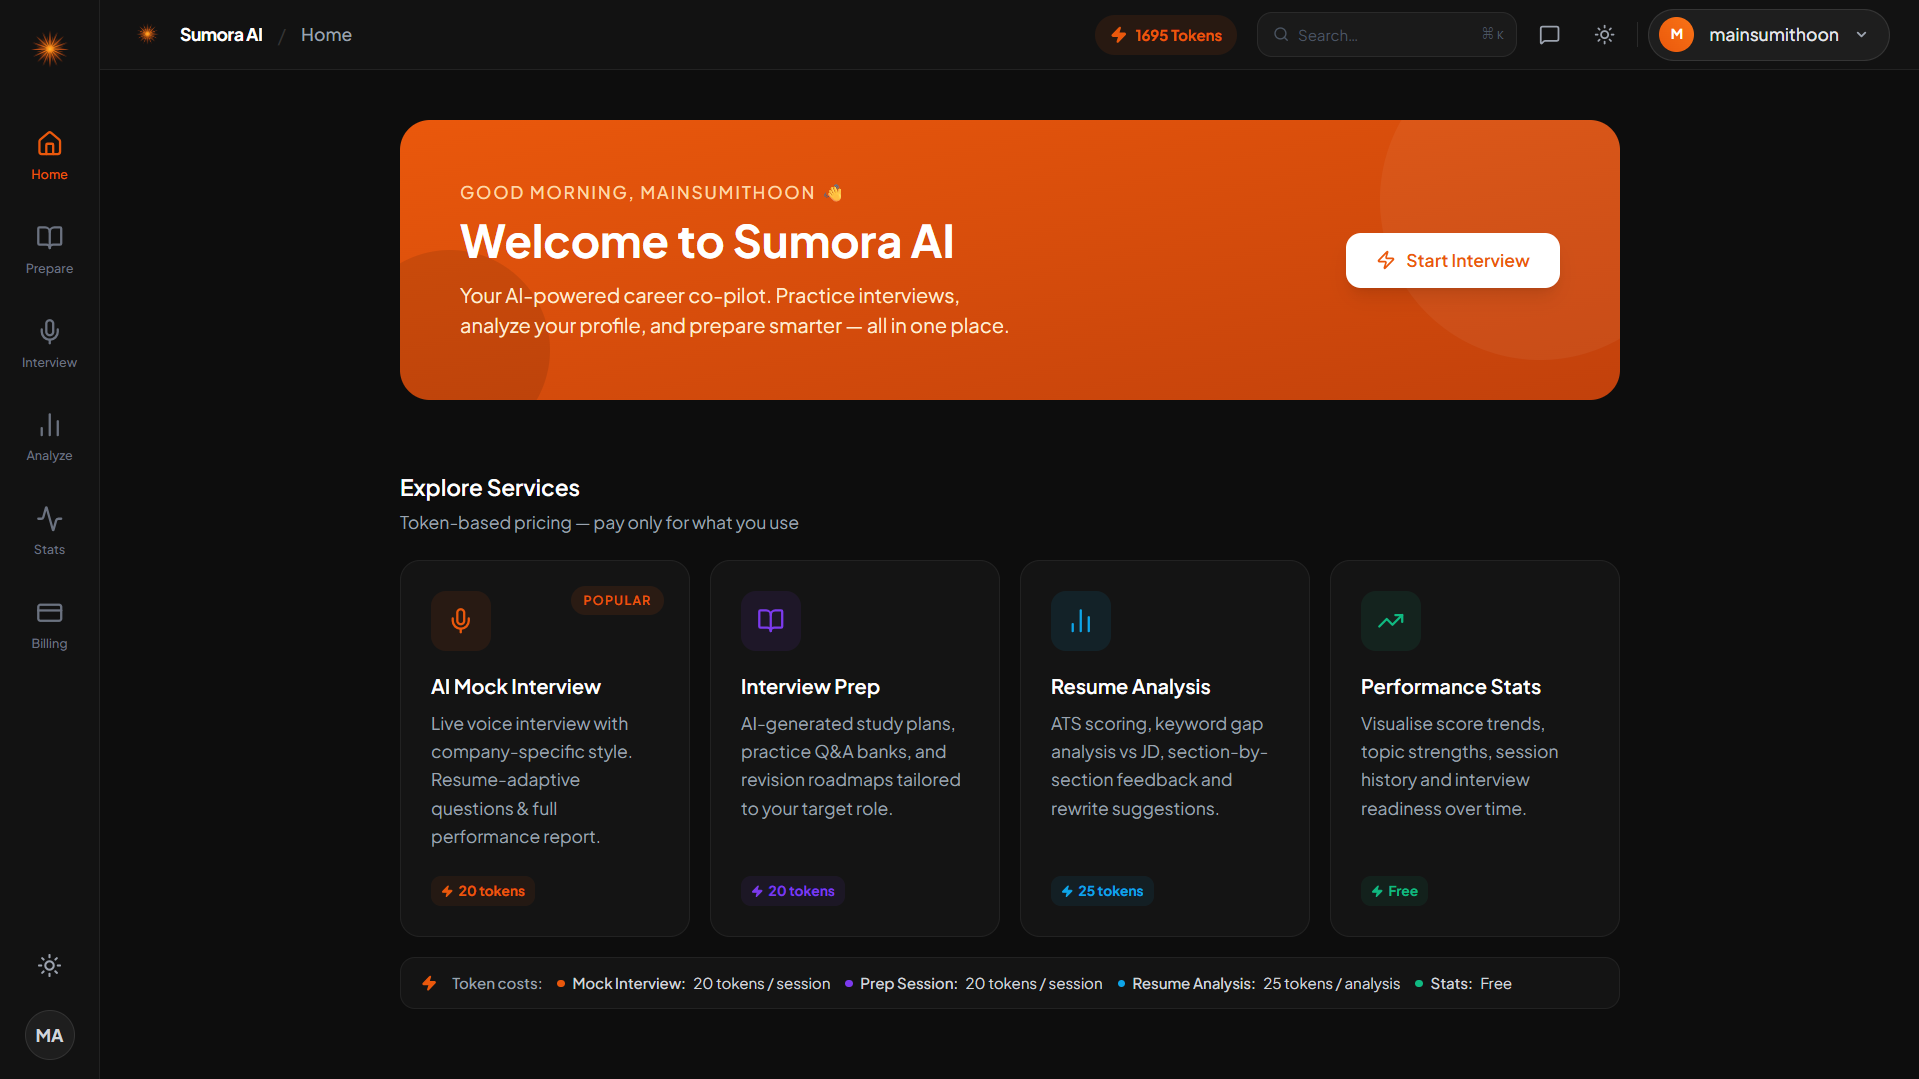
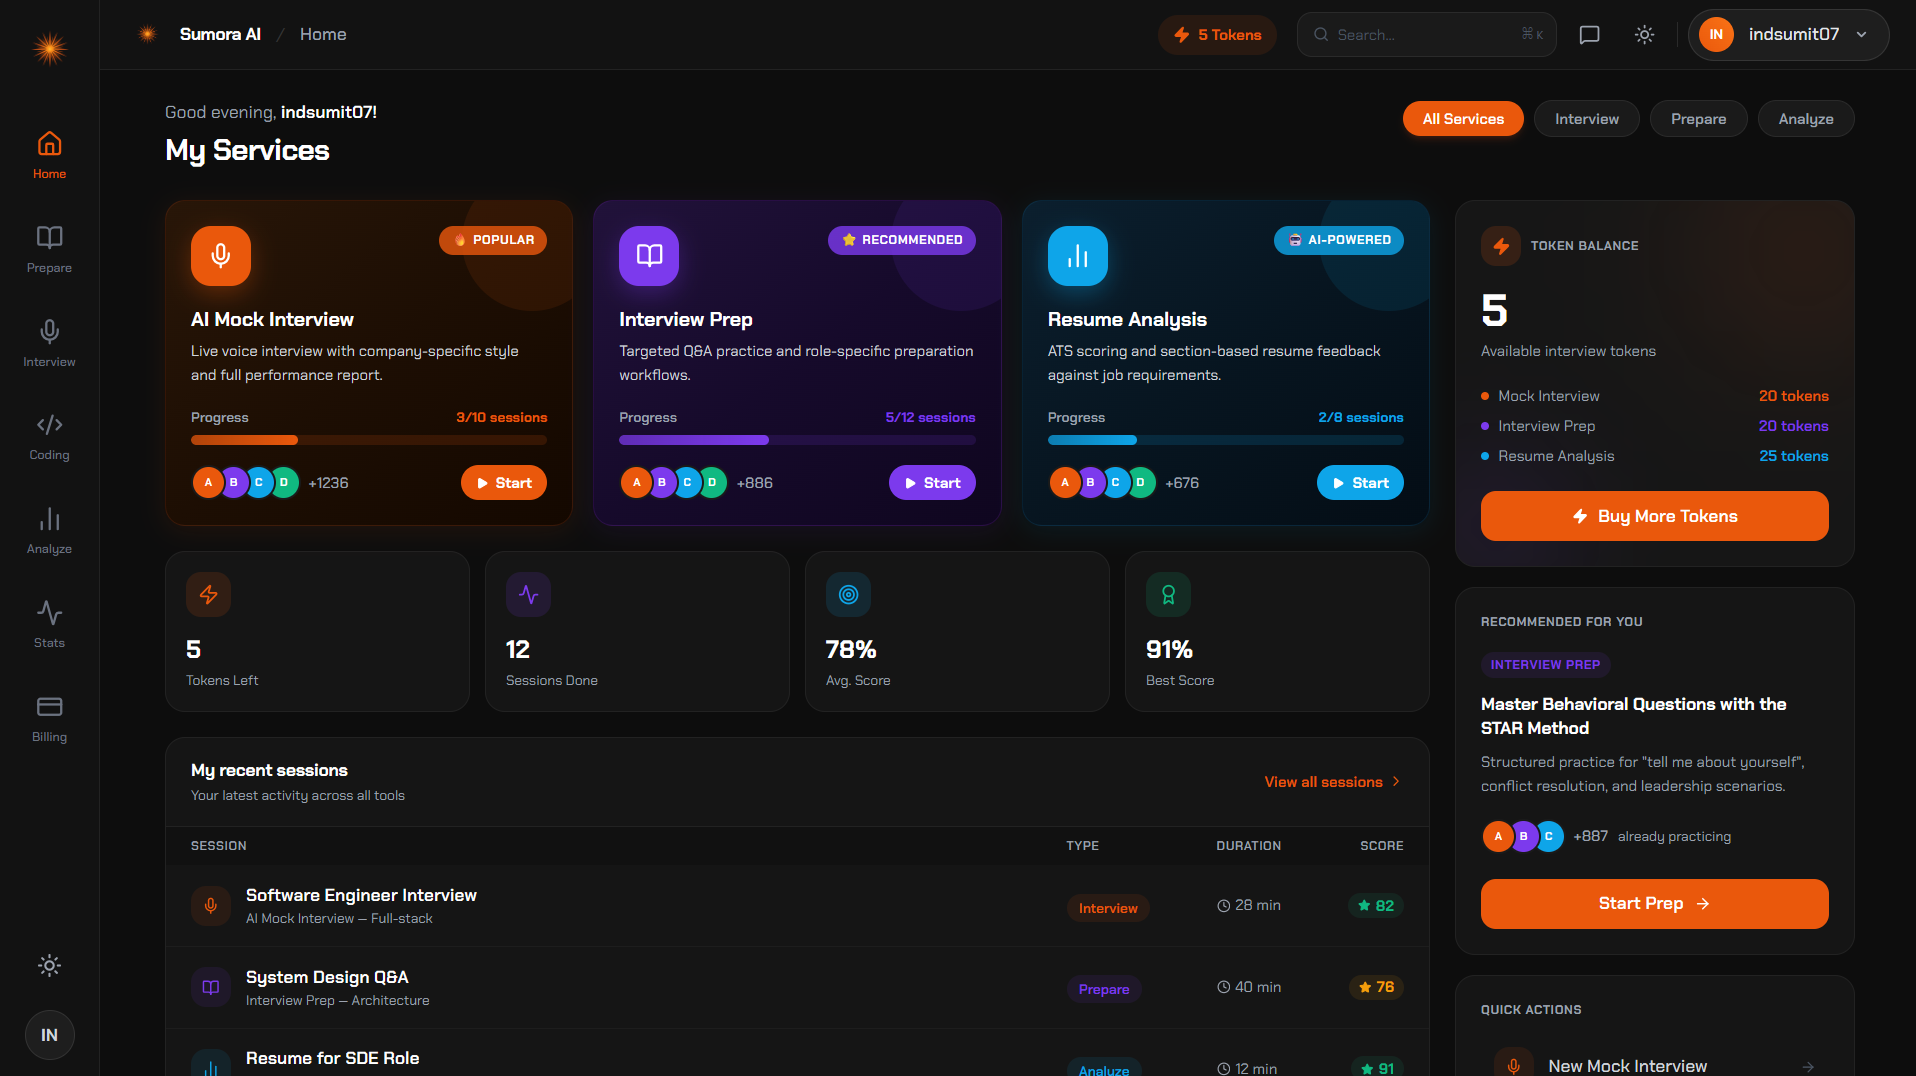
feat: implement coding interview interface with voice support using Deepgram and Monaco editor integration

diff --git a/client/src/hooks/useDeepgramVoiceAgent.js b/client/src/hooks/useDeepgramVoiceAgent.js
@@ -125,19 +125,21 @@ export function useDeepgramVoiceAgent({
   // Handle function calls from Deepgram Agent
   const handleFunctionCall = useCallback(
     async (message) => {
-      const { function_call_id, function_name, input } = message;
+      const { function_call_id, name, input, parameters } = message;
+      const args = input || parameters || {};
 
-      if (function_name === "get_ai_response") {
+      console.log("[Deepgram] Function call received:", name, args);
+
+      if (name === "get_ai_response") {
         try {
-          // Call our backend to get AI response
           const endpoint = apiEndpoint || `${API_BASE_URL}/api/interview/voice-agent-response`;
           const response = await fetch(endpoint, {
             method: "POST",
             headers: { "Content-Type": "application/json" },
             credentials: "include",
             body: JSON.stringify({
-              userMessage: input.user_message,
-              context: contextRef.current || input.context || {},
+              userMessage: args.user_message || args.userMessage || "",
+              context: contextRef.current || args.context || {},
             }),
           });
 
@@ -146,7 +148,8 @@ export function useDeepgramVoiceAgent({
             data.response ||
             "I didn't understand that. Could you please repeat?";
 
-          // Send function result back to Deepgram
+          console.log("[Deepgram] Function call response:", aiResponse.slice(0, 100));
+
           wsRef.current?.send(
             JSON.stringify({
               type: "FunctionCallResponse",
@@ -166,16 +169,17 @@ export function useDeepgramVoiceAgent({
         }
       }
     },
-    [onAgentMessage, apiEndpoint],
+    [apiEndpoint],
   );
 
   const handleDeepgramMessage = useCallback(
     (message) => {
+      if (message.type && message.type !== "ConversationText") {
+        console.log("[Deepgram] Message:", message.type, message);
+      }
       switch (message.type) {
         case "UserStartedSpeaking":
           setIsUserSpeaking(true);
-          // Immediately cut any in-progress agent audio and discard all queued
-          // audio/text so the agent responds only to the new user input.
           stopPlayback();
           queuedBlobsRef.current = [];
           queuedTextRef.current = [];
@@ -202,14 +206,14 @@ export function useDeepgramVoiceAgent({
           break;
 
         case "ConversationText":
-          // User's transcribed speech
           if (message.role === "user") {
             if (isDuplicateConversationText("user", message.content)) break;
+            console.log("[Deepgram] User transcript:", message.content);
             onTranscript?.(message.content);
           }
-          // Agent's text response
           else if (message.role === "agent" || message.role === "assistant") {
             if (isDuplicateConversationText("agent", message.content)) break;
+            console.log("[Deepgram] Agent text:", message.content.slice(0, 100));
             if (window.speakMode !== "normal" && window.isSpacePressed) {
               queuedTextRef.current.push(message.content);
             } else {
@@ -219,11 +223,9 @@ export function useDeepgramVoiceAgent({
           break;
 
         case "AgentAudioDone":
-          // Sometimes Deepgram sends the final agent text here
           break;
 
         case "FunctionCallRequest":
-          // Agent wants to call our backend function
           handleFunctionCall(message);
           break;
 
@@ -243,7 +245,6 @@ export function useDeepgramVoiceAgent({
           break;
 
         default:
-          // Ignore unhandled message types
           break;
       }
     },
@@ -509,17 +510,18 @@ export function useDeepgramVoiceAgent({
                     model: "gpt-4o-mini",
                   },
                   prompt: finalPrompt,
+                  tool_choice: "required",
                   functions: [
                     {
                       name: "get_ai_response",
                       description:
-                        "Get the next interview question or response from the AI interviewer",
+                        "Get the next interview question or response from the AI interviewer. You MUST call this function for EVERY user message. Never respond directly.",
                       parameters: {
                         type: "object",
                         properties: {
                           user_message: {
                             type: "string",
-                            description: "The user's answer or message",
+                            description: "The user's exact spoken message",
                           },
                           context: {
                             type: "object",

diff --git a/client/src/components/dashboard/coding/CodingInterviewView.jsx b/client/src/components/dashboard/coding/CodingInterviewView.jsx
@@ -315,11 +315,13 @@ const CodingInterviewView = () => {
       setChatMessages((prev) => [
         ...prev,
         { role: "user", text: "Submitted solution", isCode: true },
-        { role: "agent", text: data.analysis },
       ]);
-      // Speak the analysis via voice if connected
+      // If voice is connected, let the voice agent echo the response to chat.
+      // Otherwise, add it directly.
       if (isVoiceConnected && sendVoiceMessage) {
         sendVoiceMessage(data.analysis);
+      } else {
+        setChatMessages((prev) => [...prev, { role: "agent", text: data.analysis }]);
       }
       toast.success("Code submitted!");
     } catch (err) {
@@ -355,11 +357,13 @@ const CodingInterviewView = () => {
         }
       }
 
-      setChatMessages((prev) => [...prev, { role: "agent", text: data.response }]);
-
-      // Speak response via voice if connected
+      // If voice is connected, only speak the problem statement (not examples/constraints/starter code).
+      // Let the voice agent echo the full response to chat.
       if (isVoiceConnected && sendVoiceMessage) {
-        sendVoiceMessage(data.response);
+        const voiceText = parsed.problemStatement || data.response;
+        sendVoiceMessage(voiceText);
+      } else {
+        setChatMessages((prev) => [...prev, { role: "agent", text: data.response }]);
       }
     } catch (err) {
       toast.error(err?.response?.data?.message || "Failed to get next question");
@@ -393,11 +397,11 @@ const CodingInterviewView = () => {
         }
       }
 
-      setChatMessages((prev) => [...prev, { role: "agent", text: data.response }]);
-
-      // Speak response via voice if connected
+      // If voice is connected, let the voice agent echo the response to chat.
       if (isVoiceConnected && sendVoiceMessage) {
         sendVoiceMessage(data.response);
+      } else {
+        setChatMessages((prev) => [...prev, { role: "agent", text: data.response }]);
       }
     } catch (err) {
       toast.error(err?.response?.data?.message || "Failed to send message");
@@ -534,6 +538,7 @@ const CodingInterviewView = () => {
     connect: connectVoice,
     disconnect: disconnectVoice,
     sendMessage: sendVoiceMessage,
+    flushAgentQueues,
     isConnected: isVoiceConnected,
     isLoading: isVoiceLoading,
     isAgentSpeaking,
@@ -554,7 +559,9 @@ const CodingInterviewView = () => {
   const stopHolding = useCallback(() => {
     window.isSpacePressed = false;
     setIsHoldingToSpeak(false);
-  }, []);
+    // Release any queued agent responses that arrived while holding
+    flushAgentQueues?.();
+  }, [flushAgentQueues]);
 
   useEffect(() => {
     window.speakMode = speakMode;
